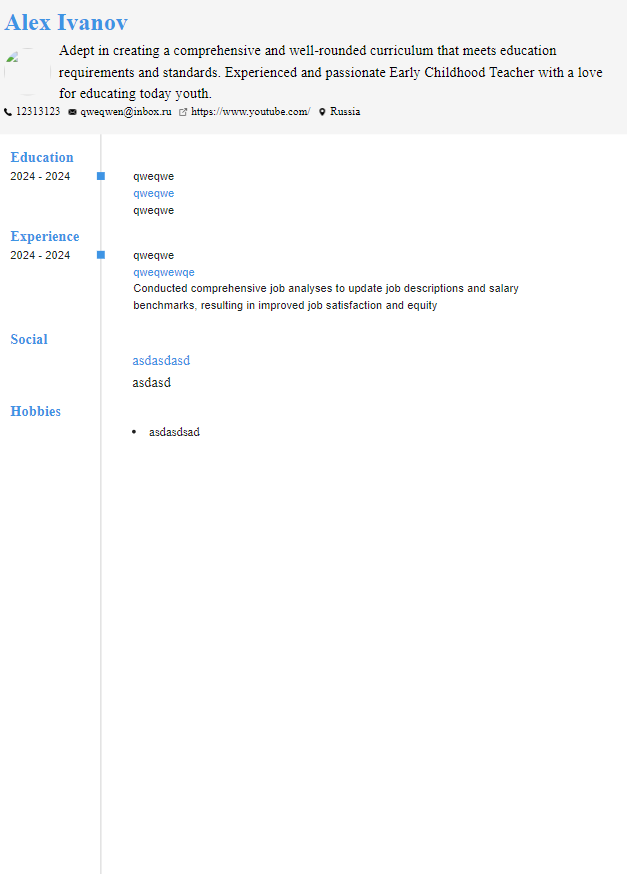
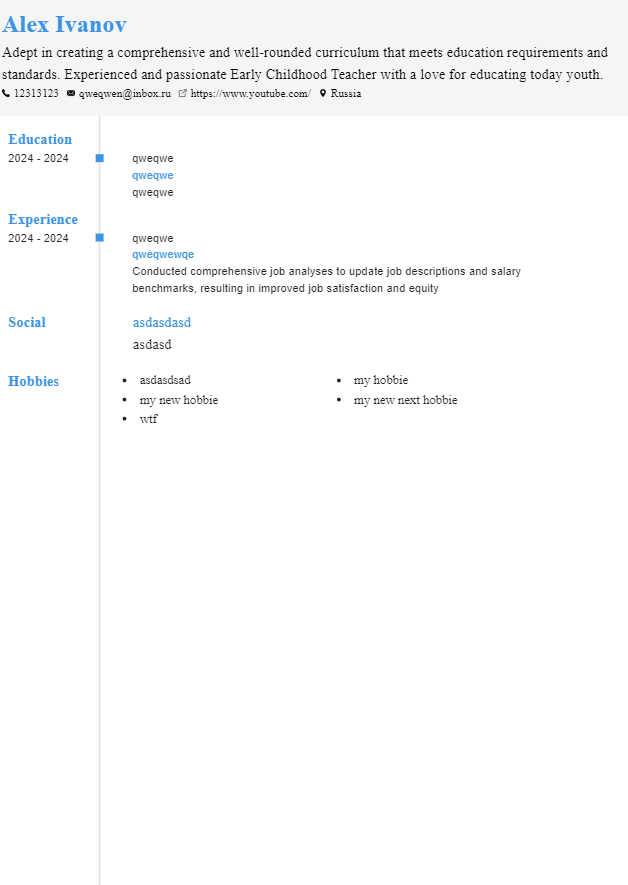
chrono fix

diff --git a/src/pages/CvTemplate/components/CardForm.tsx b/src/pages/CvTemplate/components/CardForm.tsx
@@ -70,15 +70,17 @@ const CardForm = ({ handleChangeStep, onSubmit, activeStep, setShowElement, name
           />
 
           <Button
-            onClick={currentCard.id === 6 ? onSubmit : () => handleChangeStep('plus')}
+            onClick={currentCard.id === (style.MainPage.name === 'chrono' ? 5 : 6) ?
+              style.MainPage.name === 'chrono' ? () => {onSubmit(); handleChangeStep('plus')} : onSubmit :
+              () => handleChangeStep('plus')}
             variant="contained"
             sx={buttonStyle}
           >
-            {currentCard.id === 6 ? 'Finish' : 'Next session'}
+            {currentCard.id === (style.MainPage.name === 'chrono' ? 5 : 6) ? 'Finish' : 'Next session'}
           </Button>
         </Box>
       </Box>
-      {currentCard.id !== 6 ? <Box sx={{mt: '50px', position: 'relative', overflow: 'hidden'}} className={`${classes.cvTemlpate__stepContent} ${isBlurred && classes.blur}`}>
+      {currentCard.id !== 6 && <Box sx={{mt: '50px', position: 'relative', overflow: 'hidden'}} className={`${classes.cvTemlpate__stepContent} ${isBlurred && classes.blur}`}>
         {style.MainPage.name === 'chrono' && currentCard.id !== 1 && (
           <Box 
             sx={{ 
@@ -103,7 +105,7 @@ const CardForm = ({ handleChangeStep, onSubmit, activeStep, setShowElement, name
             {preview}
           </>
         )}
-      </Box> : null}
+      </Box>}
     </Box>
   );
 };

diff --git a/src/pages/CvTemplatePDF/const/templatePDFStyles.tsx b/src/pages/CvTemplatePDF/const/templatePDFStyles.tsx
@@ -1390,20 +1390,22 @@ export const templatePDFStyles: StylesType = {
       Education: { fontSize: 7, name: 'chrono' },
       EducationTitle: { fontSize: 14, color: '#3e94e4' },
 
-      Socials: { marginBottom: 10, pageBreakInside: 'avoid' },
-      Social: { marginLeft: '155px' },
+      Socials: { marginBottom: 10, pageBreakInside: 'avoid', display: 'flex' },
+      Social: { marginLeft: '110px', marginBottom: '10px' },
       SocialTitle: {
         fontFamily: 'OpenSans',
         fontSize: 18,
         color: '#3e94e4'
       },
 
-      Hobbies: { pageBreakInside: 'avoid' },
+      Hobbies: { marginBottom: 10, pageBreakInside: 'avoid', display: 'flex' },
       Hobbie: {
+        name: 'chrono',
         display: 'flex',
         flexDirection: 'row',
         alignItems: 'center',
-        marginLeft: '155px',
+        marginLeft: '80px',
+        width: '190px'
       },
       HobbieBullets: {
         fontFamily: 'OpenSans',

diff --git a/src/pages/CvTemplatePDF/components/molecules/HobbiesPDF/HobbiesPDF.tsx b/src/pages/CvTemplatePDF/components/molecules/HobbiesPDF/HobbiesPDF.tsx
@@ -1,8 +1,8 @@
 import { SubtitlePDF } from '../../atoms';
-
 import { HobbyDataType } from '../../../../../assets/const';
 import { uniqueKey } from '../../../../../assets/lib';
 import { StyleOptionType } from '../../../const';
+
 import { Box } from '@mui/material';
 
 interface IHobbiesProps {
@@ -41,7 +41,9 @@ export const HobbiesPDF = (props: IHobbiesProps) => {
   return (
     <Box style={Hobbies}>
       <SubtitlePDF {...propsTitle} />
-      {hobbiesContent(data, currStyle)}
+      {Hobbie.name === 'chrono' ? (<Box sx={{ display: 'flex', flexWrap: 'wrap'}}>
+        {hobbiesContent(data, currStyle)}
+      </Box>) : hobbiesContent(data, currStyle)}
     </Box>
   );
 };

diff --git a/src/pages/CvTemplatePDF/components/organisms/MainPDF/MainPDF.tsx b/src/pages/CvTemplatePDF/components/organisms/MainPDF/MainPDF.tsx
@@ -151,7 +151,7 @@ export const MainPDF = (props: IMainPDFProps) => {
             <EducationPDF {...propsEducation} />
             <ExperiencePDF {...propsExperience} />
           </Box>
-          <Box sx={{ height: '100%', width: '35%', wordBreak:'break-word' }}>
+          <Box sx={{display: 'flex', flexDirection: 'column' }}>
             <SocialPDF {...propsSocial} />
             <HobbiesPDF {...propsHobbies} />
           </Box>

diff --git a/src/pages/CvTemplatePDF/components/organisms/HeaderPDF/HeaderPDF.tsx b/src/pages/CvTemplatePDF/components/organisms/HeaderPDF/HeaderPDF.tsx
@@ -103,7 +103,6 @@ export const HeaderPDF = (props: IHeaderPDFProps) => {
               {...{ fullName: fullNameTitiles[0] + ' ' + fullNameTitiles[1], style: Title }}
             />
             <Box sx={{ display: 'flex', alignItems: 'center' }}>
-              <ImagePDF {...propsImage} />
               <AboutPDF {...propsAbout} />
             </Box>
             <ContactsPDF {...propsConcats} />

diff --git a/src/pages/CvTemplatePDF/components/molecules/SocialPDF/SocialPDF.tsx b/src/pages/CvTemplatePDF/components/molecules/SocialPDF/SocialPDF.tsx
@@ -43,7 +43,9 @@ export const SocialPDF = (props: ISocialProps) => {
   return (
     <Box style={Socials}>
       <SubtitlePDF {...propsTitle} />
-      {socialContent(data, currStyle)}
+      <Box sx={{ display: 'flex', flexDirection: 'column'}}>
+        {socialContent(data, currStyle)}
+      </Box>
     </Box>
   );
 };
